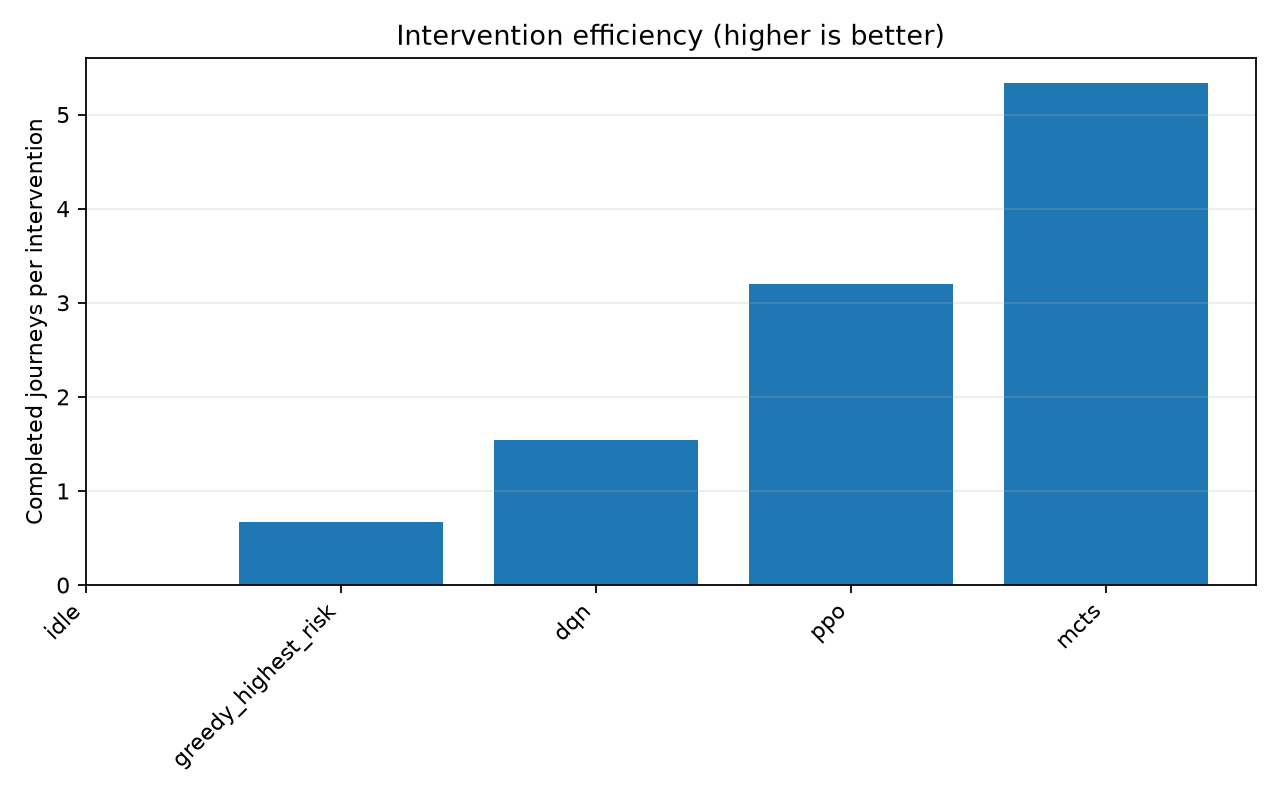
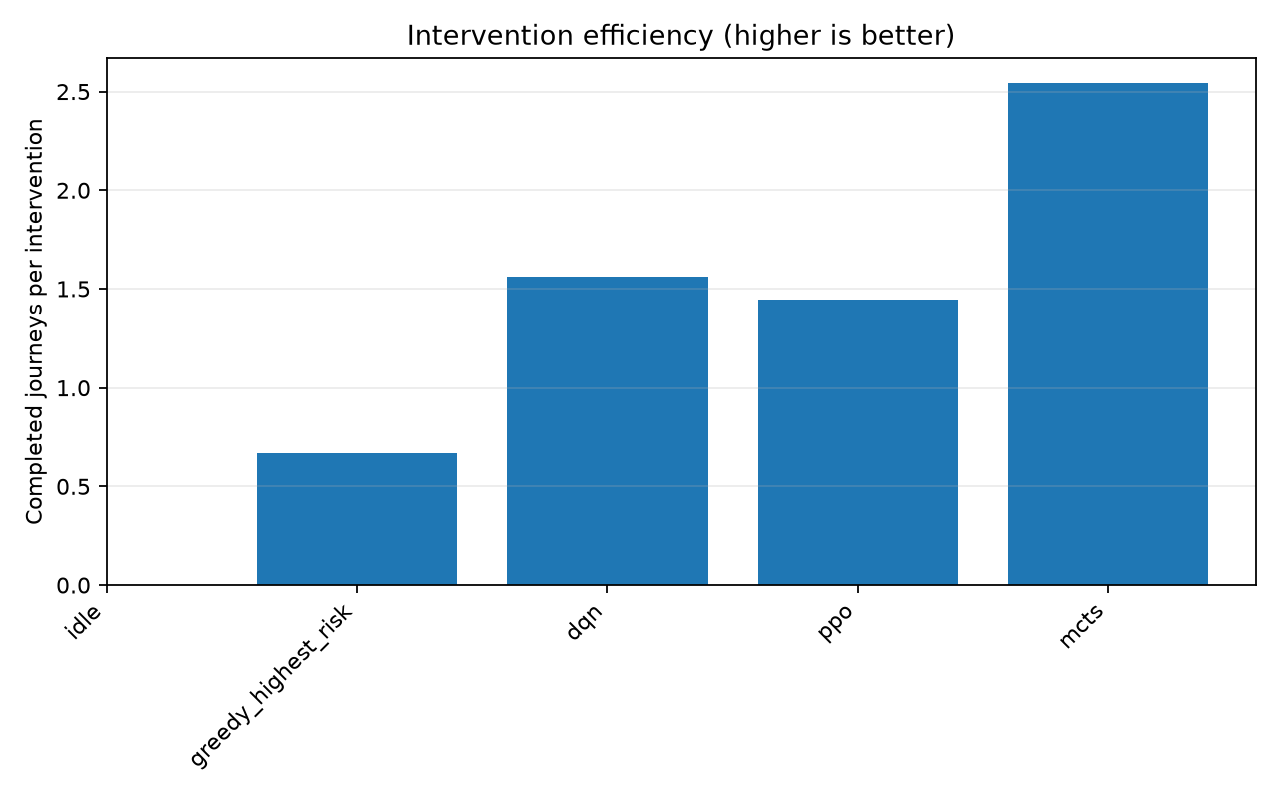
Updated plots and summaries

diff --git a/evaluations/results/benchmark_n10_20261108-220453/summary_by_checkpoint.md b/evaluations/results/benchmark_n10_20261108-220453/summary_by_checkpoint.md
@@ -1,7 +1,7 @@
 | Policy | Reward | Collisions | Near-misses | Completed | Interventions | Budget used (s) | Min dist (m) |
 |---|---|---|---|---|---|---|---|
-| idle | -1.88 ± 4.96 | 0.00 ± 0.00 | 2.38 ± 0.99 | 10.00 ± 0.00 | 0.00 ± 0.00 | 0.00 ± 0.00 | 274.14 ± 157.69 |
-| greedy_highest_risk | -11.88 ± 3.48 | 0.00 ± 0.00 | 1.38 ± 0.70 | 10.00 ± 0.00 | 15.00 ± 0.00 | 300.00 ± 0.00 | 392.36 ± 105.15 |
-| dqn:dqn_s0/best | -7.12 ± 5.30 | 0.00 ± 0.00 | 2.12 ± 1.05 | 10.00 ± 0.00 | 6.50 ± 5.68 | 130.00 ± 113.58 | 292.66 ± 144.13 |
-| ppo:ppo_s0/best | -4.38 ± 6.82 | 0.00 ± 0.00 | 2.25 ± 1.09 | 10.00 ± 0.00 | 3.12 ± 5.56 | 62.50 ± 111.10 | 276.59 ± 157.49 |
-| mcts | 0.62 ± 3.57 | 0.00 ± 0.00 | 1.50 ± 0.71 | 10.00 ± 0.00 | 1.88 ± 0.93 | 37.50 ± 18.54 | 275.34 ± 147.84 |
+| idle | -2.67 ± 4.03 | 0.00 ± 0.00 | 2.53 ± 0.81 | 10.00 ± 0.00 | 0.00 ± 0.00 | 0.00 ± 0.00 | 243.51 ± 119.73 |
+| greedy_highest_risk | -12.33 ± 3.09 | 0.00 ± 0.00 | 1.47 ± 0.62 | 10.00 ± 0.00 | 15.00 ± 0.00 | 300.00 ± 0.00 | 366.03 ± 82.80 |
+| dqn:dqn_s0/best | -7.73 ± 7.55 | 0.00 ± 0.00 | 2.27 ± 0.85 | 10.00 ± 0.00 | 6.40 ± 6.21 | 126.67 ± 122.40 | 257.49 ± 113.24 |
+| ppo:ppo_s0/best | -9.27 ± 7.20 | 0.00 ± 0.00 | 2.47 ± 0.81 | 10.00 ± 0.00 | 6.93 ± 6.21 | 136.00 ± 124.57 | 264.82 ± 115.32 |
+| mcts | -2.27 ± 3.87 | 0.00 ± 0.00 | 1.67 ± 0.60 | 10.00 ± 0.00 | 3.93 ± 1.73 | 78.67 ± 34.62 | 269.48 ± 106.64 |

diff --git a/evaluations/results/benchmark_n10_20261108-220453/summary.md b/evaluations/results/benchmark_n10_20261108-220453/summary.md
@@ -1,7 +1,7 @@
 | Policy | Reward | Collisions | Near-misses | Completed | Interventions | Budget used (s) | Min dist (m) |
 |---|---|---|---|---|---|---|---|
-| idle | -1.88 ± 4.96 | 0.00 ± 0.00 | 2.38 ± 0.99 | 10.00 ± 0.00 | 0.00 ± 0.00 | 0.00 ± 0.00 | 274.14 ± 157.69 |
-| greedy_highest_risk | -11.88 ± 3.48 | 0.00 ± 0.00 | 1.38 ± 0.70 | 10.00 ± 0.00 | 15.00 ± 0.00 | 300.00 ± 0.00 | 392.36 ± 105.15 |
-| dqn | -7.12 ± 5.30 | 0.00 ± 0.00 | 2.12 ± 1.05 | 10.00 ± 0.00 | 6.50 ± 5.68 | 130.00 ± 113.58 | 292.66 ± 144.13 |
-| ppo | -4.38 ± 6.82 | 0.00 ± 0.00 | 2.25 ± 1.09 | 10.00 ± 0.00 | 3.12 ± 5.56 | 62.50 ± 111.10 | 276.59 ± 157.49 |
-| mcts | 0.62 ± 3.57 | 0.00 ± 0.00 | 1.50 ± 0.71 | 10.00 ± 0.00 | 1.88 ± 0.93 | 37.50 ± 18.54 | 275.34 ± 147.84 |
+| idle | -2.67 ± 4.03 | 0.00 ± 0.00 | 2.53 ± 0.81 | 10.00 ± 0.00 | 0.00 ± 0.00 | 0.00 ± 0.00 | 243.51 ± 119.73 |
+| greedy_highest_risk | -12.33 ± 3.09 | 0.00 ± 0.00 | 1.47 ± 0.62 | 10.00 ± 0.00 | 15.00 ± 0.00 | 300.00 ± 0.00 | 366.03 ± 82.80 |
+| dqn | -7.73 ± 7.55 | 0.00 ± 0.00 | 2.27 ± 0.85 | 10.00 ± 0.00 | 6.40 ± 6.21 | 126.67 ± 122.40 | 257.49 ± 113.24 |
+| ppo | -9.27 ± 7.20 | 0.00 ± 0.00 | 2.47 ± 0.81 | 10.00 ± 0.00 | 6.93 ± 6.21 | 136.00 ± 124.57 | 264.82 ± 115.32 |
+| mcts | -2.27 ± 3.87 | 0.00 ± 0.00 | 1.67 ± 0.60 | 10.00 ± 0.00 | 3.93 ± 1.73 | 78.67 ± 34.62 | 269.48 ± 106.64 |
